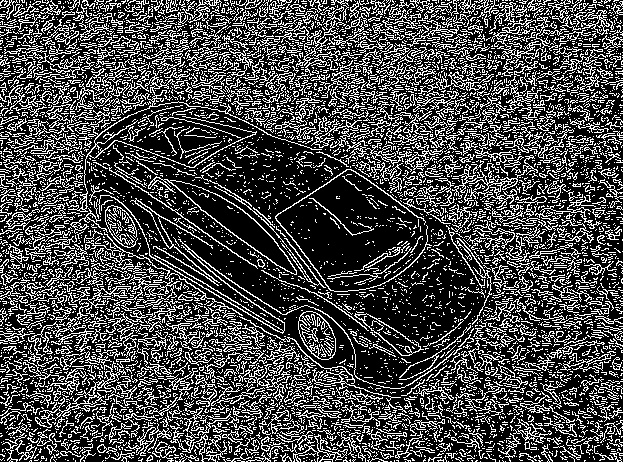
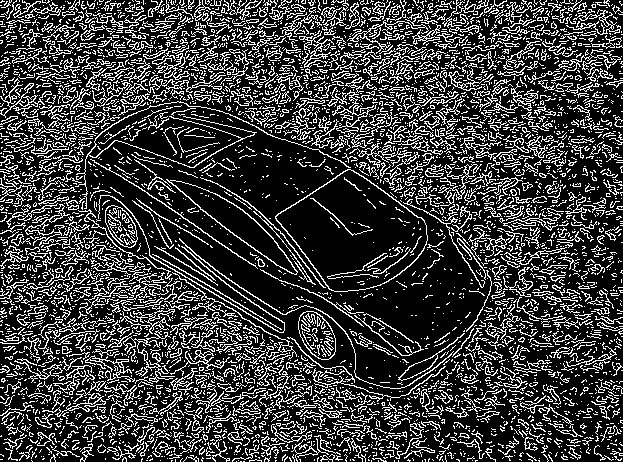
assignment_3

diff --git a/assignment_3/assignment_3.py b/assignment_3/assignment_3.py
@@ -10,13 +10,33 @@ def sobel_edge_detection(image):
     
 def canny_edge_detection(image, threshold_1, threshold_2):
     Gblur = cv2.GaussianBlur(image, (3,3), 0) 
-    edges = cv2.Canny(img, threshold_1, threshold_2)
+    edges = cv2.Canny(Gblur, threshold_1, threshold_2)
     cv2.imwrite("assignment_3/solutions/III_2_canny_edge_detection.jpg", edges)
 
 
 def template_match(image, template):
-    res = cv2.matchTemplate(img,template,method)
-    pass
+    img_gray = cv2.cvtColor(image, cv2.COLOR_BGR2GRAY)
+    template_gray = cv2.cvtColor(template, cv2.COLOR_BGR2GRAY)
+    w, h = template_gray.shape[::-1]
+    
+    res = cv2.matchTemplate(img_gray,template_gray,cv2.TM_CCOEFF_NORMED)
+    threshold = 0.9
+    loc = np.where( res >= threshold)
+    for pt in zip(*loc[::-1]):
+        cv2.rectangle(image, pt, (pt[0] + w, pt[1] + h), (0,0,255), 2) 
+    cv2.imwrite("assignment_3/solutions/III_3_template_match.jpg", image)
+
+
+def resize( image, scale_factor: int, up_or_down: str):
+    rows, cols, _channels = map(int, image.shape)
+    
+    if up_or_down == "up":
+        image = cv2.pyrUp(image, dstsize=(scale_factor * cols, scale_factor * rows))
+        print (f'** Zoom In: Image x {scale_factor}')    
+    elif up_or_down == 'down':
+        image = cv2.pyrDown(image, dstsize=(cols // scale_factor, rows // scale_factor))
+        print (f'** Zoom Out: Image / {scale_factor}')
+    cv2.imwrite("assignment_3/solutions/III_4_resize_down.jpg", image)
 
 
 
@@ -50,7 +70,16 @@ if __name__ == "__main__":
             canny_edge_detection(img, t1, t2)
         
         elif userInput == "3":
-            pass
+            shape_image = "assignment_3/shapes-1.png"
+            shape_img = cv2.imread(shape_image)
+            
+            template_image = "assignment_3/shapes_template.jpg"
+            template_img = cv2.imread(template_image)
+            
+            template_match(shape_img, template_img)
         
         elif userInput == "4":
-            pass
+            up_Or_down = "down"
+            scale_factor = 2
+            
+            resize(img, scale_factor, up_Or_down)
